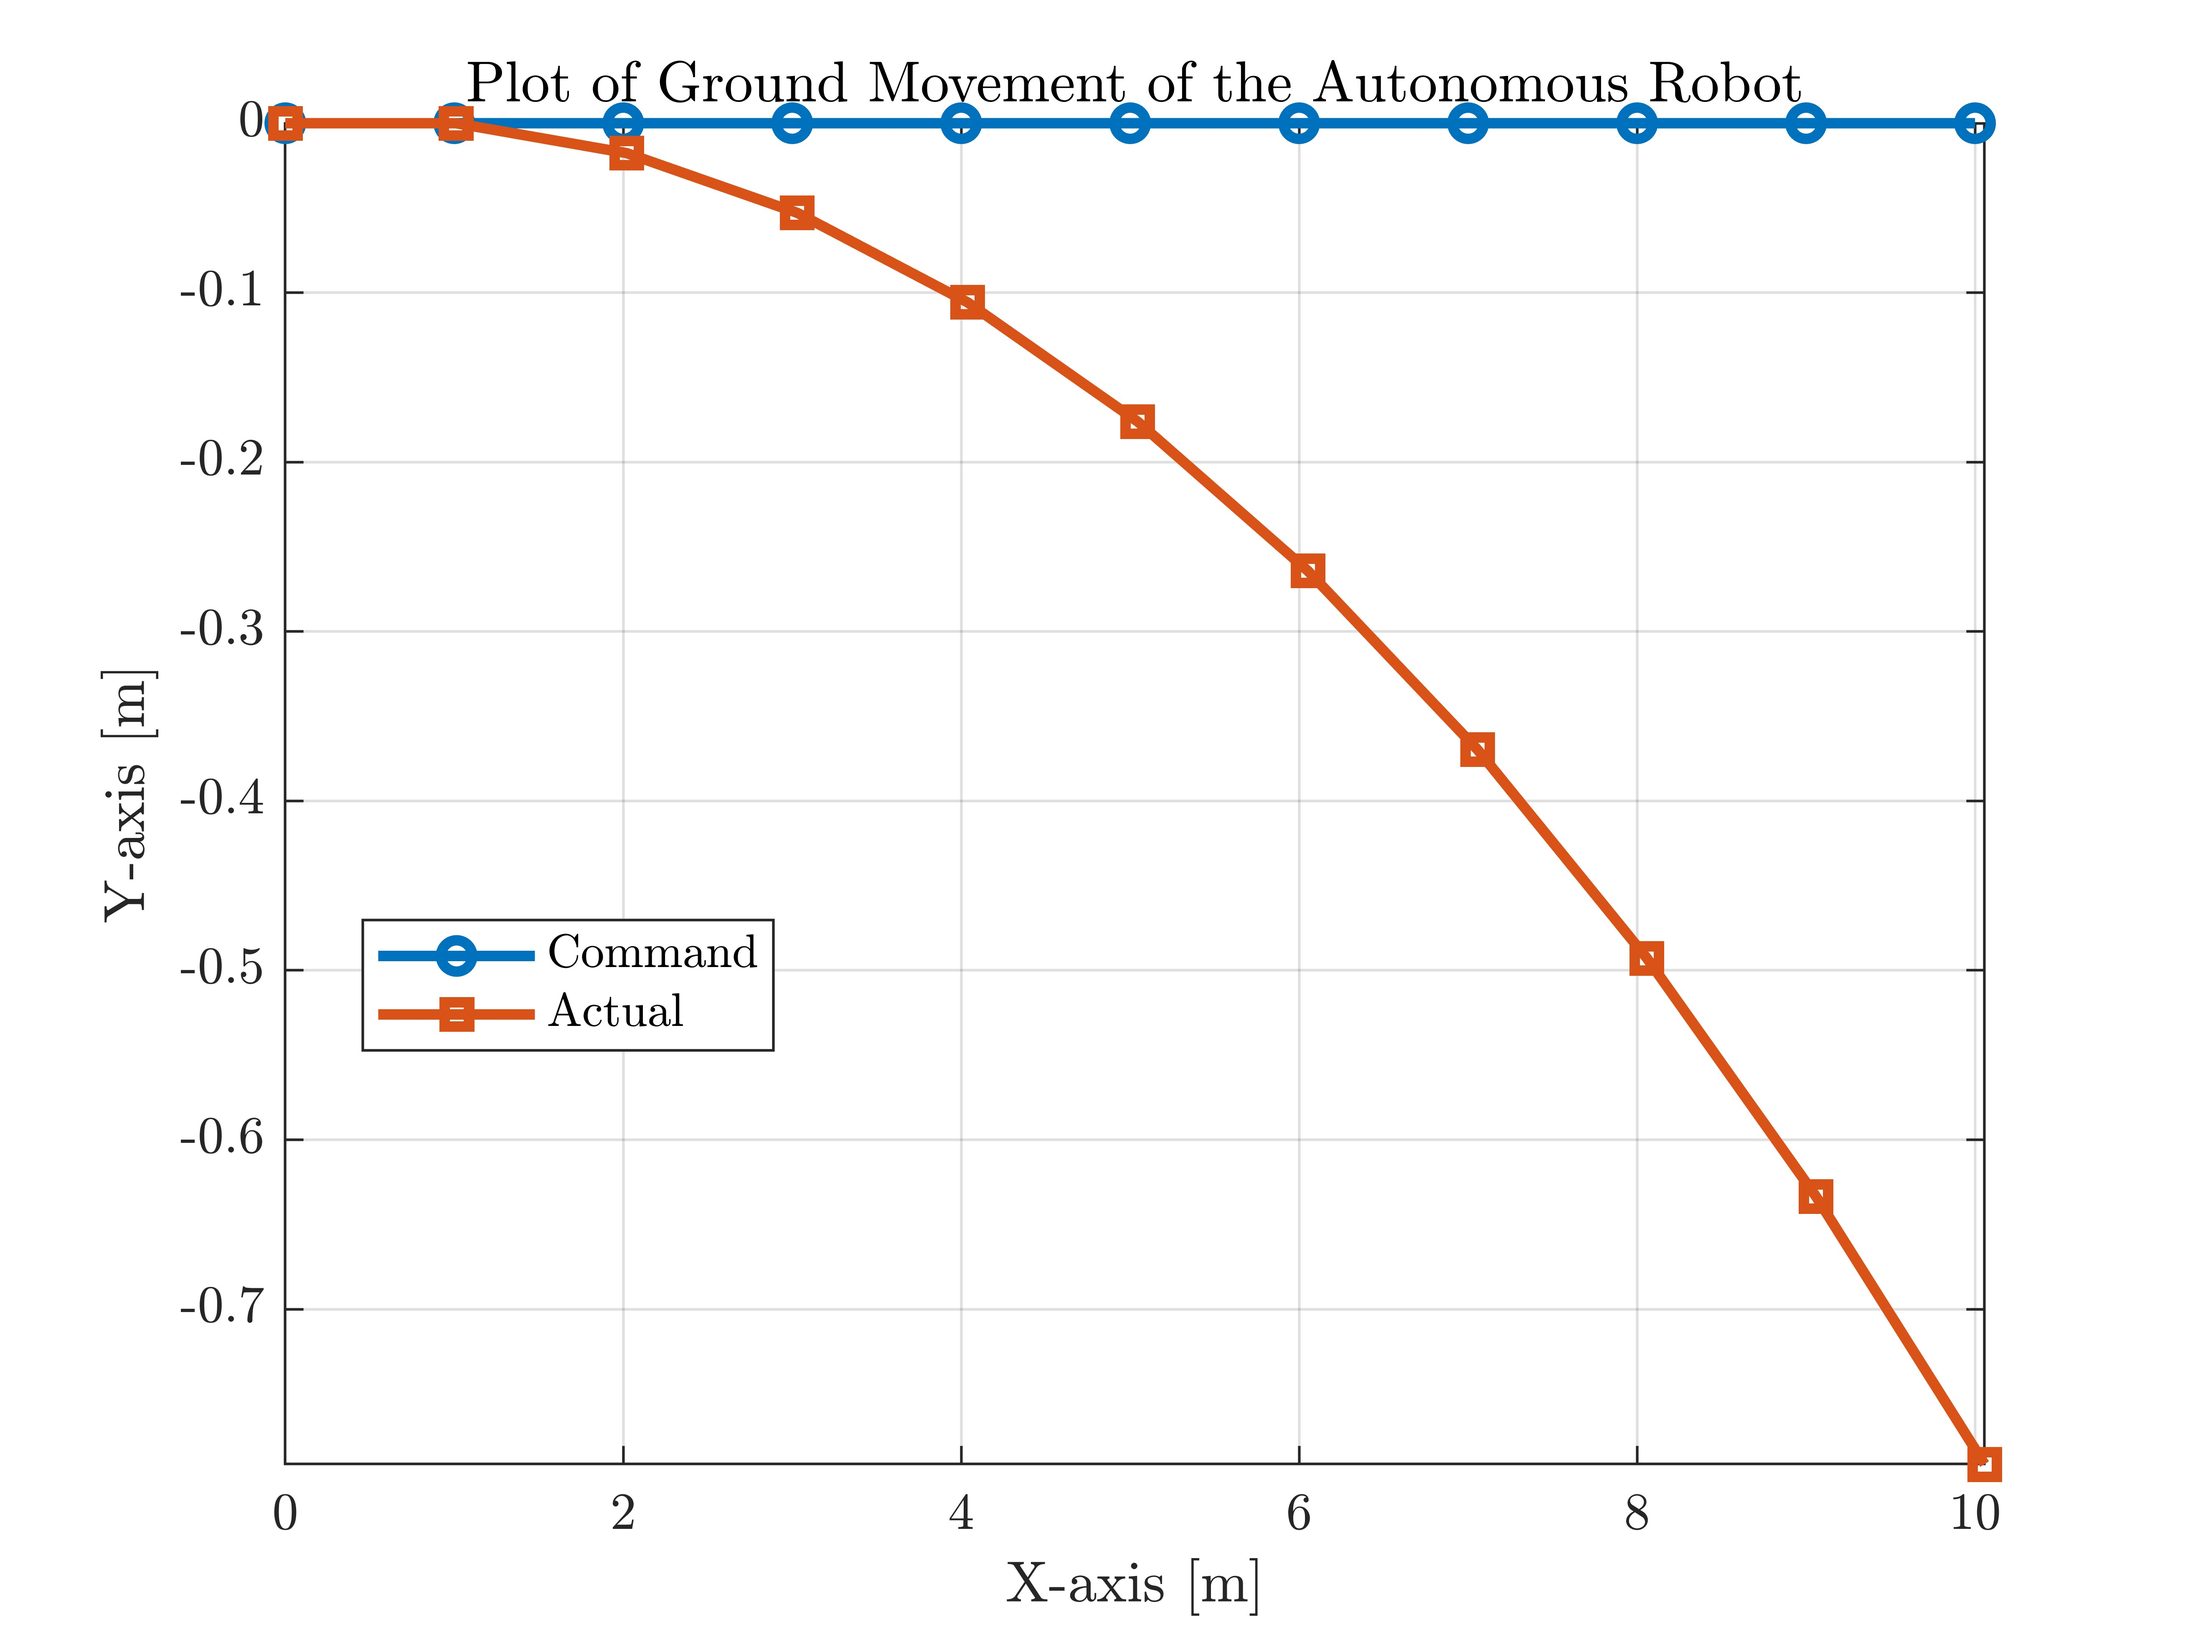
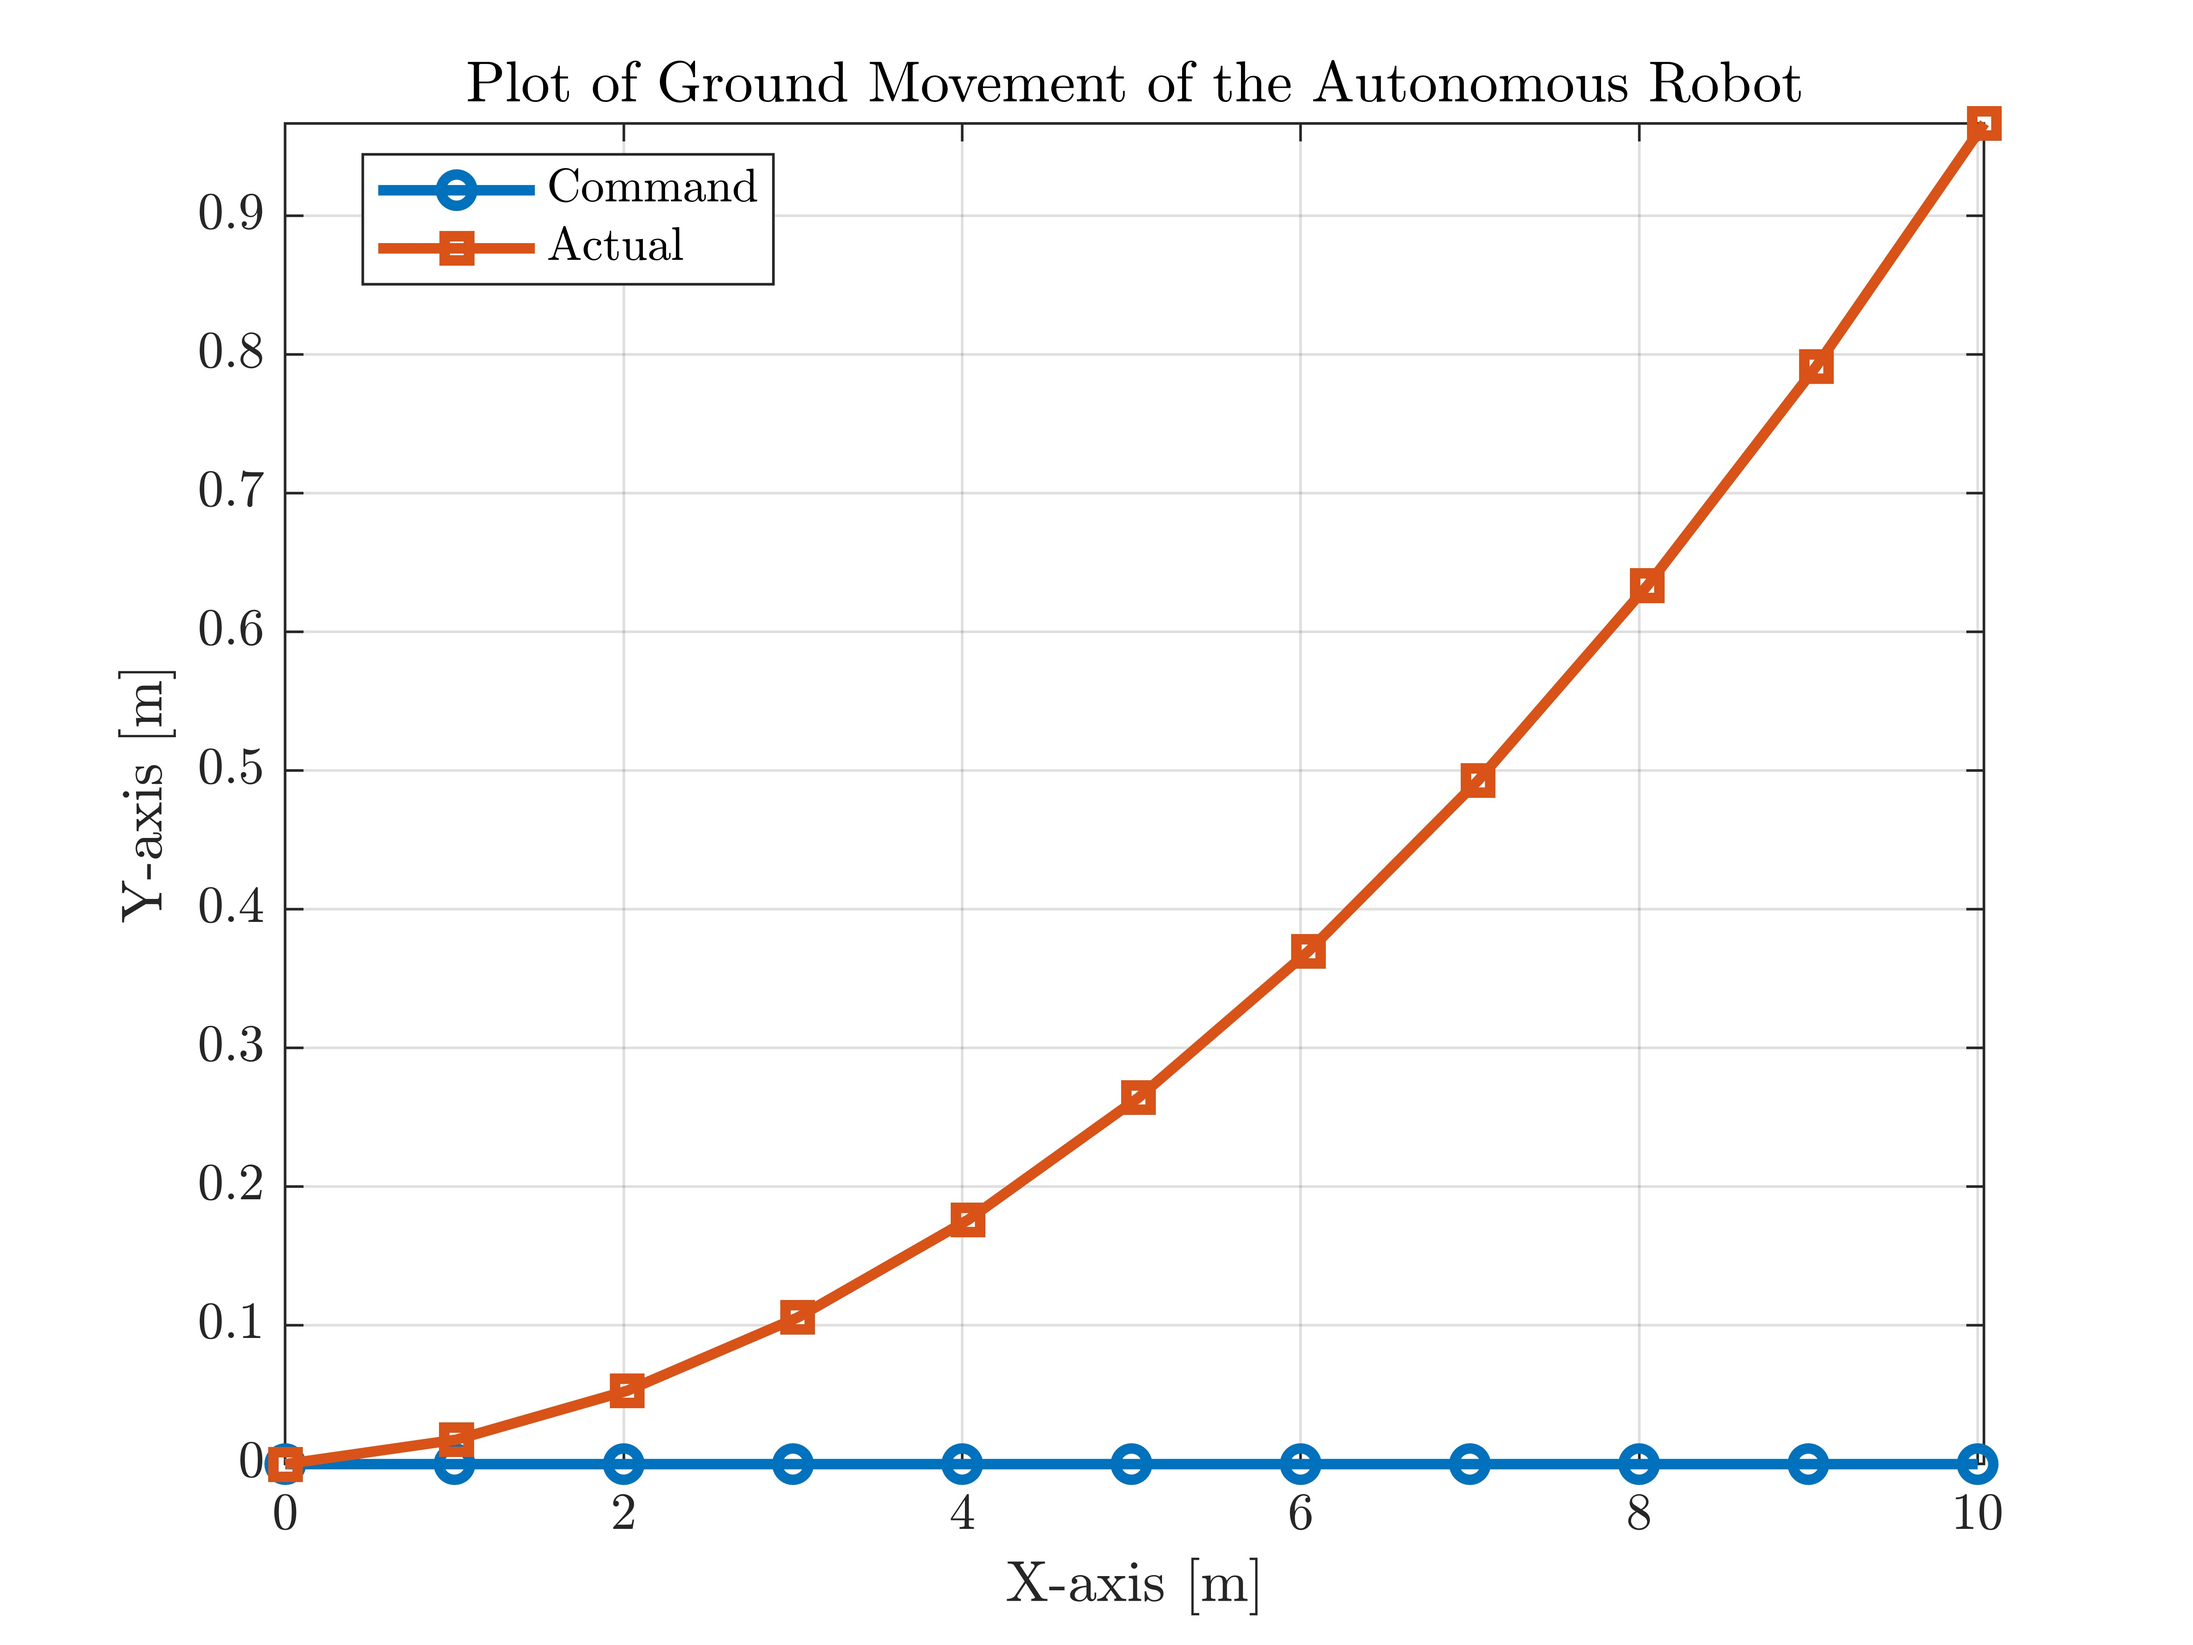
fixed

diff --git a/Homework/HW1/HW1.m b/Homework/HW1/HW1.m
@@ -60,7 +60,7 @@ R_G2C=[0.5363, -0.844, 0;
          0, 0, 1];
 t_C2G = transpose([-451.2459, 257.0322, 400]);
 
-T_G2C = rotmatandtranslationvector2posetransformation(R_G2C,t_C2G);
+T_G2C = rotmatandtranslationvector2posetransformation(R_G2C,R_G2C * t_C2G);
 
 disp('The Pose Transformation Matrix is:');
 disp(T_G2C);
@@ -85,9 +85,13 @@ t_actual = transpose([1.01,0]);
 degree_command = 0; %degrees
 degree_actual = 1; %degrees
 
-T_command = poseTransformationFromAngleAndTranslationVector(degree_command,t_command);
-T_actual = poseTransformationFromAngleAndTranslationVector(degree_actual,t_actual);
-
+R_command = calculateRotationMatrixFromDeg(degree_command);
+R_actual = calculateRotationMatrixFromDeg(degree_actual);
+ 
+T_command_0 = poseTransformationFromAngleAndTranslationVector(degree_command,t_command);
+T_command = T_command_0;
+T_actual_0 = poseTransformationFromAngleAndTranslationVector(degree_actual,t_actual);
+T_actual = T_actual_0;
 % (b) we shall now simulate the movement for 10 steps
 x_0 = transpose([0,0]);
 x_0_Aug = transpose([0, 0, 1]);
@@ -97,10 +101,16 @@ x_actual_Aug = x_0_Aug;
 
 numberOfTimeSteps = 10;
 
+
 for i=1:numberOfTimeSteps
-   x_command_Aug = [x_command_Aug, T_command * x_command_Aug(:,i)];
-   x_actual_Aug = [x_actual_Aug, T_actual * x_actual_Aug(:,i)];
+   x_command_Aug = [x_command_Aug, T_command * x_command_Aug(:,1)];
+   T_command = T_command * T_command_0;
+    
+   x_actual_Aug = [x_actual_Aug, oppositeT(T_actual) * x_command_Aug(:,1)];
+   T_actual = T_actual * T_actual_0;
+   
 end
+
 x_command = x_command_Aug;
 x_command(3,:) = [];
 x_actual = x_actual_Aug;
@@ -151,12 +161,23 @@ end
 % translation vector
 
 function T = poseTransformationFromAngleAndTranslationVector(angleInDeg,t)
-    angleInRad = deg2rad(angleInDeg);
-    R = [cos(angleInRad), sin(angleInRad);
-         -sin(angleInRad), cos(angleInRad)];
+    R = calculateRotationMatrixFromDeg(angleInDeg);
     T = [R, t;
         zeros(1,2), 1];
 end
+% (3.a) Calculate ground vehicle Rotation Matrix R from angle
+function R = calculateRotationMatrixFromDeg(angleInDeg)
+    angleInRad = deg2rad(angleInDeg);
+    R = [cos(angleInRad), sin(angleInRad);
+         -sin(angleInRad), cos(angleInRad)];
+end
+
+function T_opposite = oppositeT(T)
+    R_new = transpose(T(1:2,1:2));
+    t_new = R_new * T(1:2,3);
+    T_opposite = [R_new, t_new;
+        zeros(1,2), 1];
+end 
 
 % (3.b) Function to Plot the data and make jpg
 function plotPaths(data1, data2, fileName, resolution)
@@ -218,7 +239,7 @@ function [errorX, errorY, totalError, errorAngle] = calculateErrorAndAngle(data1
     totalError = sqrt(errorX^2 + errorY^2);
 
     % Calculate the angle (in degrees) between the vectors
-    errorAngle = 90 + atan2d(lastY2 - lastY1, lastX2 - lastX1);
+    errorAngle = atan2(lastY2 - data2(2, end-1), lastX2 - data2(1, end-1));
 end
 
 
